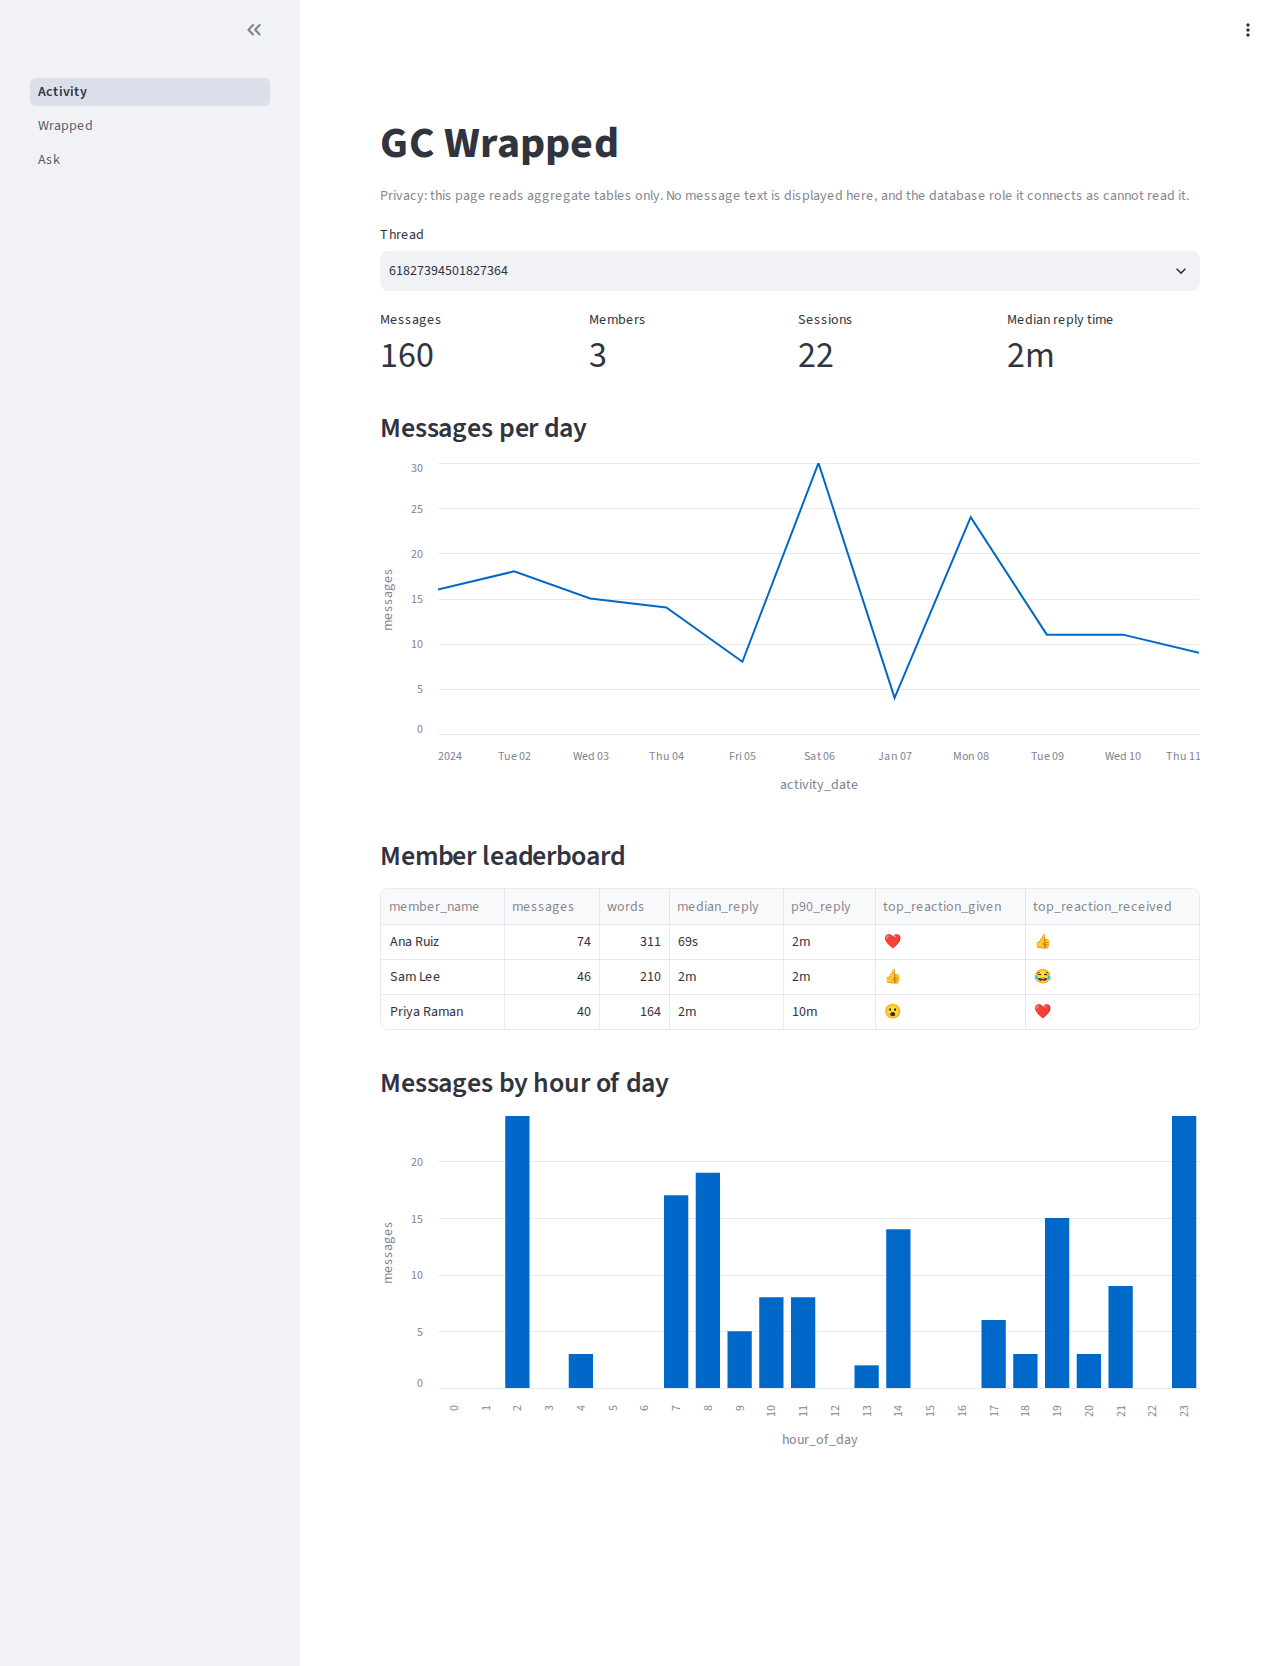
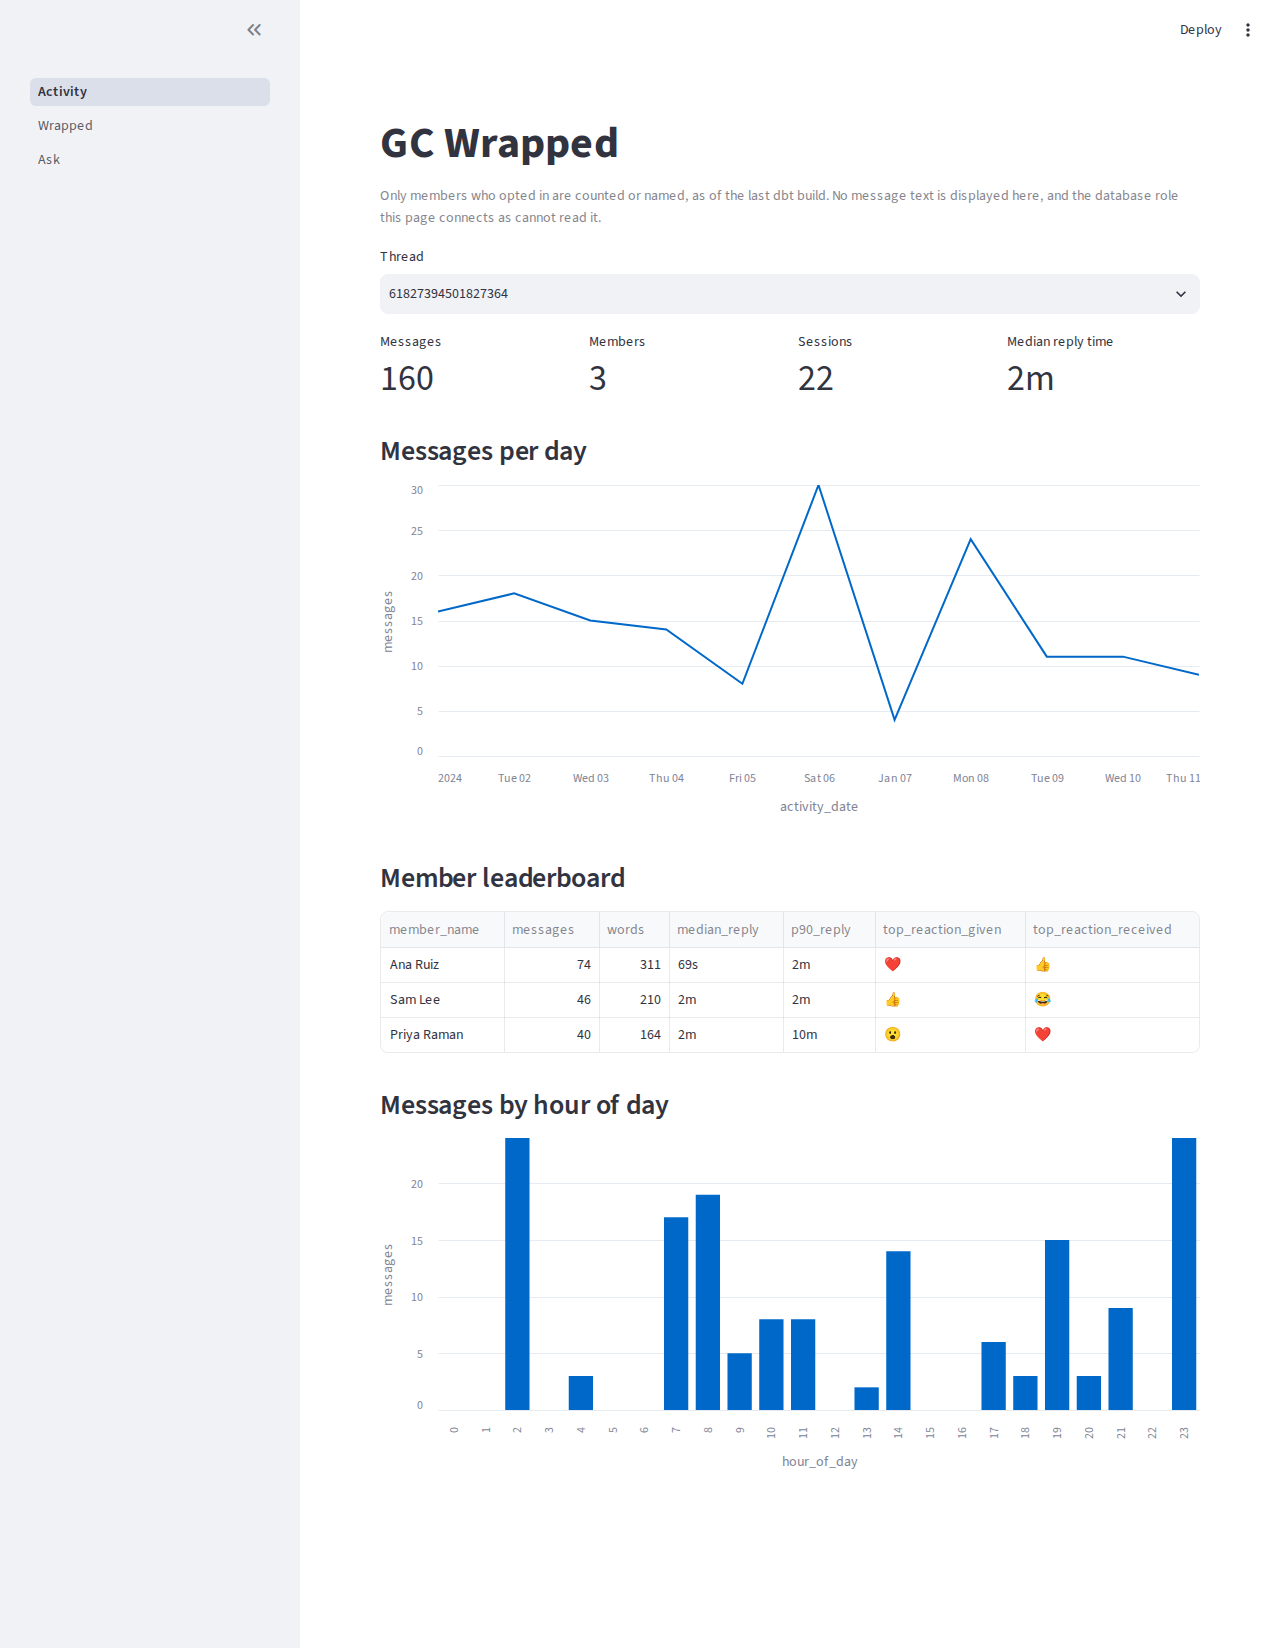
Refresh the README screenshots from the synthetic dev stack
The Activity image predated the opted-in-only marts (D128); its caption said
so. All three are recaptured at the same widths.

diff --git a/README.md b/README.md
@@ -196,7 +196,7 @@ make down ENV_FILE=<env file>              # stop the real stack when done
 
 ![Activity page](docs/img/dashboard.png)
 
-*Activity: counts and timings per thread. Synthetic data, captured before Activity was limited to opted-in senders (D128).*
+*Activity: counts and timings per thread, over opted-in senders only. Synthetic data.*
 
 ![Wrapped page](docs/img/wrapped.png)
 
